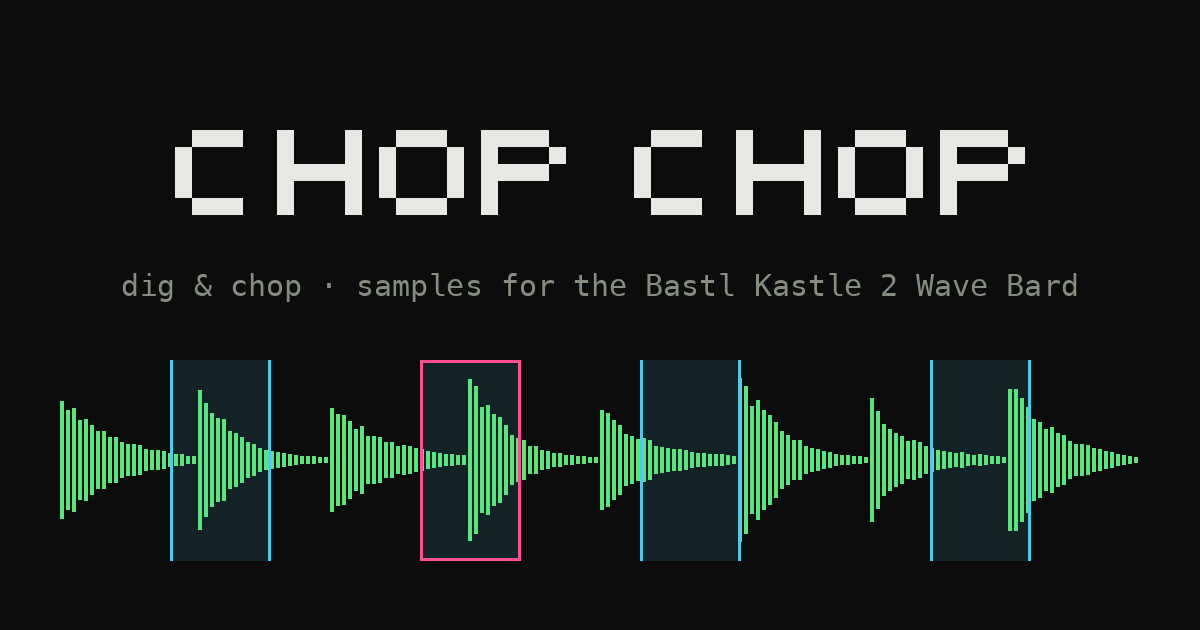
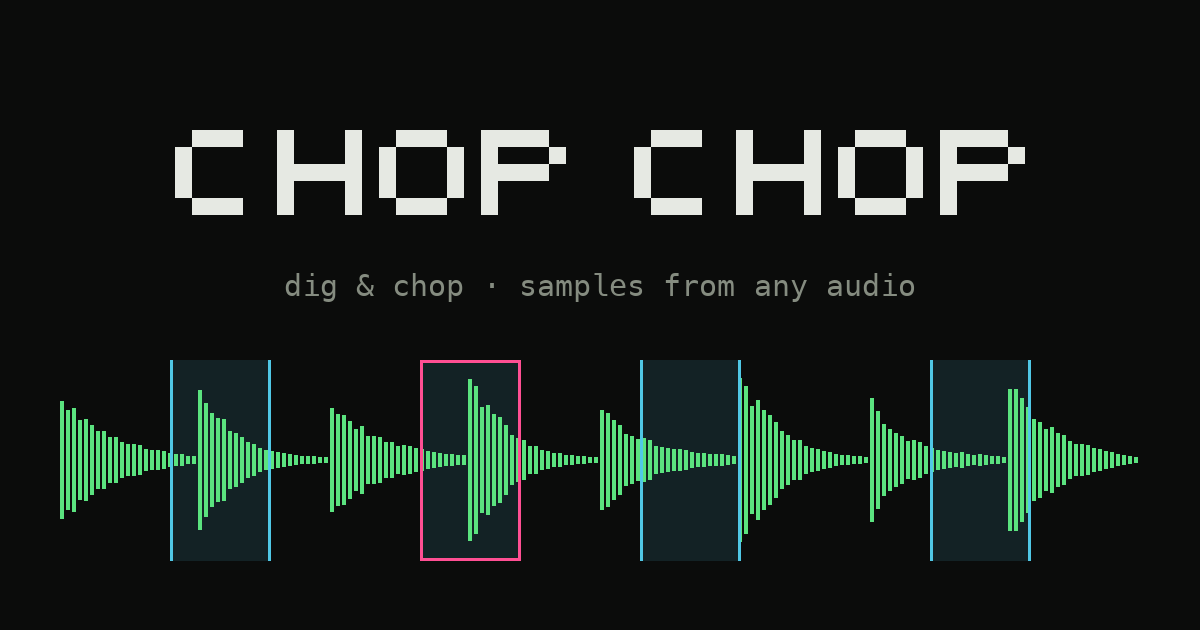
Drop Wave Bard-specific branding
Neutral tagline, metadata, OG image, help and footer copy; memory meter
shows total length; no over-budget prompt on download.

Changed region(s): [[0.4317, 0.4222, 0.8942, 0.4825], [0.0925, 0.4222, 0.4317, 0.4825]]

diff --git a/i18n.js b/i18n.js
@@ -5,8 +5,8 @@
 
 const dict = {
   es: {
-    metaDesc: 'Saca samples de cualquier audio para el Bastl Kastle 2 Wave Bard',
-    tag: 'dig & chop para el Wave Bard',
+    metaDesc: 'Saca samples de cualquier audio, directamente en el navegador.',
+    tag: 'dig & chop · samples de cualquier audio',
     langs: 'Idioma',
     open: 'Abrir audio',
     rec: '● Grabar',
@@ -17,11 +17,11 @@ const dict = {
     dropT: 'Arrastra aquí un audio',
     dropNote: 'WAV, MP3, AIFF, FLAC… · todo se queda en tu navegador',
     howBtn: 'Cómo se usa',
-    howIntro: 'Saca samples de cualquier audio para el Wave Bard, en dos partes:',
+    howIntro: 'Saca samples de cualquier audio en dos partes:',
     howStart: 'Empieza abriendo un audio o grabando una pestaña o el micro.',
     howDig: 'Pide «8 trozos de 2 s» y pulsa <b>⛏ Dig</b>. Marca con ★ los que te gusten y vuelve a cavar: solo cambian los demás.',
     howChop: 'Arrastra el centro de un trozo para moverlo y sus bordes para ajustarlo; doble clic añade uno. Renómbralo, cambia velocidad o fades y escúchalos seguidos o al azar.',
-    howEnd: 'Al final, ponle nombre al pack y <b>⬇ Descarga el ZIP</b>. Cárgalo en la web app de Bastl.',
+    howEnd: 'Al final, ponle nombre al pack y <b>⬇ Descarga el ZIP</b>.',
     noShow: 'No mostrar más',
     close: 'Cerrar',
     zoomAll: 'Ver todo',
@@ -44,11 +44,11 @@ const dict = {
     seqRand: '⤨ Aleatorio',
     seqRandT: 'Los trozos procesados en orden aleatorio, en bucle',
     stopT: 'Parar (Espacio)',
-    memT: 'Memoria del Wave Bard',
+    memT: 'Duración total de los trozos (la barra llega a 89 s)',
     help2: '<kbd>D</kbd> dig · <kbd>K</kbd> ★ · <kbd>Espacio</kbd> escucha o para · <kbd>Supr</kbd> quita el trozo · <kbd>←</kbd><kbd>→</kbd> cambian de trozo · <kbd>Esc</kbd> deselecciona · rueda = zoom, <kbd>Mayús</kbd>+rueda = desplazar.',
     slices: 'Trozos',
     clear: 'Empezar de cero',
-    ready: '¿Listo para el Bard?',
+    ready: '¿Listo?',
     packName: 'Nombre del pack',
     download: '⬇ Descargar ZIP',
     slice: 'Trozo',
@@ -68,7 +68,7 @@ const dict = {
     applyAll: 'Copiar a todos',
     applyAllT: 'Copia canales, velocidad, fades, normalizar y al revés a todos los trozos',
     remove: 'Quitar',
-    foot: 'WAV de 16 bits a 44,1 kHz en carpetas de 8 (un banco cada una). Cárgalos en la <a href="https://apps.bastl-instruments.com/wave-bard-sample-loader/" target="_blank" rel="noopener">web app de Bastl</a>. Los samples melódicos, mejor afinados en Do.',
+    foot: 'WAV de 16 bits a 44,1 kHz, en carpetas de 8 y con nombres de hasta 8 caracteres: listos para tu sampler. Todo se procesa en tu navegador.',
     recording: 'Grabando',
     recStop: '■ Parar y usar',
     cancel: 'Cancelar',
@@ -85,7 +85,7 @@ const dict = {
     emptyList: 'Aún no hay trozos. Pulsa «⛏ Dig» o arrastra sobre la onda.',
     starOn: 'Guardado: el siguiente Dig no lo toca',
     starOff: 'Guardar este trozo',
-    memOver: ' · pasa de la memoria',
+    memOver: ' · más de 89 s',
     exportInfo: '{n} {slices} · {b} {banks} · WAV 16 bit / 44,1 kHz',
     exportEmpty: 'Saca algunos trozos primero.',
     pInfo: 'Duración final {d} · ocupa {m} s de memoria',
@@ -95,7 +95,6 @@ const dict = {
     allKept: 'Ya tienes {n} trozos guardados con ★. Sube el número para sacar más.',
     dugKept: '{n} trozos nuevos · tus {k} ★ siguen ahí',
     dug: '{n} trozos de {d}',
-    overBudget: 'Estos trozos ocupan más que la memoria del Wave Bard. Puedes exportarlos igual: la web app de Bastl te deja bajar la calidad para que quepan. ¿Exportar?',
     processing: 'Procesando {i}/{n}…',
     zipReady: 'ZIP listo: {n} samples en {b} {banks}',
     zipFail: 'No he podido crear el ZIP. Prueba otra vez.',
@@ -114,8 +113,8 @@ const dict = {
   },
 
   gl: {
-    metaDesc: 'Saca samples de calquera audio para o Bastl Kastle 2 Wave Bard',
-    tag: 'dig & chop para o Wave Bard',
+    metaDesc: 'Saca samples de calquera audio, directamente no navegador.',
+    tag: 'dig & chop · samples de calquera audio',
     langs: 'Idioma',
     open: 'Abrir audio',
     rec: '● Gravar',
@@ -126,11 +125,11 @@ const dict = {
     dropT: 'Arrastra aquí un audio',
     dropNote: 'WAV, MP3, AIFF, FLAC… · todo queda no teu navegador',
     howBtn: 'Como se usa',
-    howIntro: 'Saca samples de calquera audio para o Wave Bard, en dúas partes:',
+    howIntro: 'Saca samples de calquera audio en dúas partes:',
     howStart: 'Comeza abrindo un audio ou gravando unha lapela ou o micro.',
     howDig: 'Pide «8 anacos de 2 s» e preme <b>⛏ Dig</b>. Marca con ★ os que che gusten e volve cavar: só cambian os demais.',
     howChop: 'Arrastra o centro dun anaco para movelo e os seus bordos para axustalo; dobre clic engade un. Renoméao, cambia velocidade ou fades e escóitaos seguidos ou ao chou.',
-    howEnd: 'Ao final, ponlle nome ao pack e <b>⬇ Descarga o ZIP</b>. Cárgao na web app de Bastl.',
+    howEnd: 'Ao final, ponlle nome ao pack e <b>⬇ Descarga o ZIP</b>.',
     noShow: 'Non amosar máis',
     close: 'Pechar',
     zoomAll: 'Ver todo',
@@ -153,11 +152,11 @@ const dict = {
     seqRand: '⤨ Aleatorio',
     seqRandT: 'Os anacos procesados en orde aleatoria, en bucle',
     stopT: 'Parar (Espazo)',
-    memT: 'Memoria do Wave Bard',
+    memT: 'Duración total dos anacos (a barra chega a 89 s)',
     help2: '<kbd>D</kbd> dig · <kbd>K</kbd> ★ · <kbd>Espazo</kbd> escoita ou para · <kbd>Supr</kbd> quita o anaco · <kbd>←</kbd><kbd>→</kbd> cambian de anaco · <kbd>Esc</kbd> deselecciona · roda = zoom, <kbd>Maiús</kbd>+roda = desprazar.',
     slices: 'Anacos',
     clear: 'Comezar de cero',
-    ready: 'Listo para o Bard?',
+    ready: 'Listo?',
     packName: 'Nome do pack',
     download: '⬇ Descargar ZIP',
     slice: 'Anaco',
@@ -177,7 +176,7 @@ const dict = {
     applyAll: 'Copiar a todos',
     applyAllT: 'Copia canles, velocidade, fades, normalizar e ao revés a todos os anacos',
     remove: 'Quitar',
-    foot: 'WAV de 16 bits a 44,1 kHz en cartafoles de 8 (un banco cada un). Cárgaos na <a href="https://apps.bastl-instruments.com/wave-bard-sample-loader/" target="_blank" rel="noopener">web app de Bastl</a>. Os samples melódicos, mellor afinados en Do.',
+    foot: 'WAV de 16 bits a 44,1 kHz, en cartafoles de 8 e con nomes de ata 8 caracteres: listos para o teu sampler. Todo se procesa no teu navegador.',
     recording: 'Gravando',
     recStop: '■ Parar e usar',
     cancel: 'Cancelar',
@@ -194,7 +193,7 @@ const dict = {
     emptyList: 'Aínda non hai anacos. Preme «⛏ Dig» ou arrastra sobre a onda.',
     starOn: 'Gardado: o seguinte Dig non o toca',
     starOff: 'Gardar este anaco',
-    memOver: ' · pasa da memoria',
+    memOver: ' · máis de 89 s',
     exportInfo: '{n} {slices} · {b} {banks} · WAV 16 bit / 44,1 kHz',
     exportEmpty: 'Saca algúns anacos primeiro.',
     pInfo: 'Duración final {d} · ocupa {m} s de memoria',
@@ -204,7 +203,6 @@ const dict = {
     allKept: 'Xa tes {n} anacos gardados con ★. Sube o número para sacar máis.',
     dugKept: '{n} anacos novos · os teus {k} ★ seguen aí',
     dug: '{n} anacos de {d}',
-    overBudget: 'Estes anacos ocupan máis que a memoria do Wave Bard. Podes exportalos igual: a web app de Bastl déixache baixar a calidade para que caiban. Exportar?',
     processing: 'Procesando {i}/{n}…',
     zipReady: 'ZIP listo: {n} samples en {b} {banks}',
     zipFail: 'Non puiden crear o ZIP. Proba outra vez.',
@@ -223,8 +221,8 @@ const dict = {
   },
 
   en: {
-    metaDesc: 'Pull samples from any audio for the Bastl Kastle 2 Wave Bard',
-    tag: 'dig & chop for the Wave Bard',
+    metaDesc: 'Pull samples from any audio, right in your browser.',
+    tag: 'dig & chop · samples from any audio',
     langs: 'Language',
     open: 'Open audio',
     rec: '● Record',
@@ -235,11 +233,11 @@ const dict = {
     dropT: 'Drop an audio file here',
     dropNote: 'WAV, MP3, AIFF, FLAC… · everything stays in your browser',
     howBtn: 'How it works',
-    howIntro: 'Pull samples from any audio for the Wave Bard, in two parts:',
+    howIntro: 'Pull samples from any audio in two parts:',
     howStart: 'Start by opening a file or recording a tab or the mic.',
     howDig: 'Ask for “8 slices of 2 s” and hit <b>⛏ Dig</b>. Star ★ the ones you like and dig again: only the rest change.',
     howChop: 'Drag the middle of a slice to move it and its edges to resize it; double-click adds one. Rename it, change speed or fades, and play them in order or shuffled.',
-    howEnd: 'Finally, name the pack and <b>⬇ Download the ZIP</b>. Load it with the Bastl web app.',
+    howEnd: 'Finally, name the pack and <b>⬇ Download the ZIP</b>.',
     noShow: 'Don’t show again',
     close: 'Close',
     zoomAll: 'Show all',
@@ -262,11 +260,11 @@ const dict = {
     seqRand: '⤨ Shuffle',
     seqRandT: 'Processed slices in random order, looping',
     stopT: 'Stop (Space)',
-    memT: 'Wave Bard memory',
+    memT: 'Total length of your slices (the bar tops out at 89 s)',
     help2: '<kbd>D</kbd> dig · <kbd>K</kbd> ★ · <kbd>Space</kbd> play/stop · <kbd>Del</kbd> removes the slice · <kbd>←</kbd><kbd>→</kbd> switch slice · <kbd>Esc</kbd> deselect · wheel = zoom, <kbd>Shift</kbd>+wheel = scroll.',
     slices: 'Slices',
     clear: 'Start over',
-    ready: 'Ready for the Bard?',
+    ready: 'Ready?',
     packName: 'Pack name',
     download: '⬇ Download ZIP',
     slice: 'Slice',
@@ -286,7 +284,7 @@ const dict = {
     applyAll: 'Copy to all',
     applyAllT: 'Copies channels, speed, fades, normalize and reverse to every slice',
     remove: 'Remove',
-    foot: '16-bit 44.1 kHz WAVs in folders of 8 (one bank each). Load them with the <a href="https://apps.bastl-instruments.com/wave-bard-sample-loader/" target="_blank" rel="noopener">Bastl web app</a>. Melodic samples work best tuned to C.',
+    foot: '16-bit 44.1 kHz WAVs in folders of 8 with names up to 8 characters: ready for your sampler. Everything runs in your browser.',
     recording: 'Recording',
     recStop: '■ Stop and use',
     cancel: 'Cancel',
@@ -303,7 +301,7 @@ const dict = {
     emptyList: 'No slices yet. Hit «⛏ Dig» or drag over the waveform.',
     starOn: 'Kept: the next Dig won’t touch it',
     starOff: 'Keep this slice',
-    memOver: ' · over memory',
+    memOver: ' · over 89 s',
     exportInfo: '{n} {slices} · {b} {banks} · WAV 16 bit / 44.1 kHz',
     exportEmpty: 'Pull some slices first.',
     pInfo: 'Final length {d} · uses {m} s of memory',
@@ -313,7 +311,6 @@ const dict = {
     allKept: 'You already have {n} starred slices. Raise the number to pull more.',
     dugKept: '{n} new slices · your {k} ★ are still there',
     dug: '{n} slices of {d}',
-    overBudget: 'These slices take more than the Wave Bard’s memory. You can export anyway: the Bastl web app lets you lower the quality so they fit. Export?',
     processing: 'Processing {i}/{n}…',
     zipReady: 'ZIP ready: {n} samples in {b} {banks}',
     zipFail: 'Couldn’t build the ZIP. Try again.',

diff --git a/index.html b/index.html
@@ -3,8 +3,8 @@
 <head>
 <meta charset="utf-8">
 <meta name="viewport" content="width=device-width, initial-scale=1">
-<title>chop chop · dig &amp; chop para el Wave Bard</title>
-<meta name="description" content="Saca samples de cualquier audio para el Bastl Kastle 2 Wave Bard">
+<title>chop chop · dig &amp; chop · samples de cualquier audio</title>
+<meta name="description" content="Saca samples de cualquier audio, directamente en el navegador.">
 <meta name="theme-color" content="#0b0c0b">
 <meta name="color-scheme" content="dark">
 <link rel="icon" href="favicon.svg" type="image/svg+xml">
@@ -15,12 +15,12 @@
 <meta property="og:type" content="website">
 <meta property="og:site_name" content="chop chop">
 <meta property="og:title" content="chop chop · dig &amp; chop">
-<meta property="og:description" content="Saca samples de cualquier audio para el Bastl Kastle 2 Wave Bard. Todo en tu navegador.">
+<meta property="og:description" content="Saca samples de cualquier audio, directamente en el navegador.">
 <meta property="og:url" content="https://chochop.vercel.app/">
 <meta property="og:image" content="https://chochop.vercel.app/og.png">
 <meta property="og:image:width" content="1200">
 <meta property="og:image:height" content="630">
-<meta property="og:image:alt" content="chop chop: dig &amp; chop para el Wave Bard">
+<meta property="og:image:alt" content="chop chop: dig &amp; chop, samples de cualquier audio">
 <meta property="og:locale" content="es_ES">
 <meta property="og:locale:alternate" content="gl_ES">
 <meta property="og:locale:alternate" content="en_GB">
@@ -32,7 +32,7 @@
 </head>
 <body>
 <header class="top">
-  <div class="brand"><span class="logo">chop chop</span><span class="tag" data-i18n="tag">dig &amp; chop para el Wave Bard</span></div>
+  <div class="brand"><span class="logo">chop chop</span><span class="tag" data-i18n="tag">dig &amp; chop · samples de cualquier audio</span></div>
   <div class="actions">
     <div class="langs" role="group" data-i18n-aria="langs" aria-label="Idioma">
       <button type="button" data-lang="es" lang="es" title="Castellano">ES</button>

diff --git a/app.js b/app.js
@@ -310,7 +310,7 @@ function renderMeter() {
   const pct = used / BUDGET_SAMPLES;
   els.memfill.style.width = Math.min(100, pct * 100) + '%';
   els.memfill.classList.toggle('over', pct > 1);
-  els.memtext.textContent = `Bard ${(used / TARGET_RATE).toFixed(1)} / ${Math.round(BUDGET_SAMPLES / TARGET_RATE)} s${pct > 1 ? t('memOver') : ''}`;
+  els.memtext.textContent = `Total ${(used / TARGET_RATE).toFixed(1)} s${pct > 1 ? t('memOver') : ''}`;
   const n = state.regions.length;
   const nb = Math.ceil(n / BANK_SIZE);
   els.exportInfo.textContent = n
@@ -674,8 +674,6 @@ function dig() {
 async function exportZip() {
   const list = sorted();
   if (!list.length) return;
-  const used = list.reduce((a, r) => a + regionCost(r), 0);
-  if (used > BUDGET_SAMPLES && !confirm(t('overBudget'))) return;
   els.exportBtn.disabled = true;
   try {
     const names = uniqueNames(list.map((r) => r.name));

diff --git a/README.md b/README.md
@@ -1,6 +1,6 @@
 # chop chop ✂
 
-Trocea cualquier audio en samples listos para el **Bastl Kastle 2 Wave Bard**.
+**Dig & chop**: saca samples de cualquier audio, directamente en el navegador.
 
 Es una página web estática: se abre en el navegador y todo el audio se procesa en local, sin subir nada a ningún sitio.
 
@@ -12,8 +12,8 @@ Es una página web estática: se abre en el navegador y todo el audio se procesa
 - **Dig**: «saca 8 trozos de 2 s» al azar (empezando en golpes), repartidos por todo el audio o seguidos desde el cursor. Marca con ★ los que te gusten y vuelve a cavar: solo cambian los demás.
 - **Chop**: arrastra el centro de un trozo para moverlo y sus bordes para ajustarlo. Doble clic añade uno; arrastrar en vacío crea uno a mano.
 - Ajustes por trozo: nombre de 8 caracteres, mono/estéreo, velocidad (×1, ×0,75, ×0,5, ×0,25, estilo cinta), fades, normalizar y al revés.
-- **Escucha** cada trozo, o todos seguidos o en orden aleatorio y en bucle, como los tocaría el Bard.
-- Un medidor indica cuánta memoria del Wave Bard ocupas (≈ 89 s en mono / 44 s en estéreo a 44,1 kHz).
+- **Escucha** cada trozo, o todos seguidos o en orden aleatorio y en bucle.
+- Un medidor indica la duración total de los trozos (la barra llega a 89 s, la memoria de un Wave Bard en mono).
 - **Descarga** un ZIP con el nombre del pack que elijas: WAV de 16 bits a 44,1 kHz, en carpetas de 8 (`banco1`, `banco2`…) con nombres válidos de 8 caracteres. El nombre del pack también da nombre a los sonidos, salvo los que renombres a mano.
 - En castellano, galego e English.
 
@@ -31,7 +31,7 @@ Es una página web estática: se abre en el navegador y todo el audio se procesa
 | Esc | Deseleccionar |
 | Rueda | Zoom · Mayús + rueda: desplazar |
 
-## Cargar en el Wave Bard
+## Ejemplo: cargarlos en un Bastl Wave Bard
 
 1. Exporta el ZIP y descomprímelo.
 2. Abre la [web app de Bastl](https://apps.bastl-instruments.com/wave-bard-sample-loader/) y arrastra los WAV de cada carpeta a un banco.
